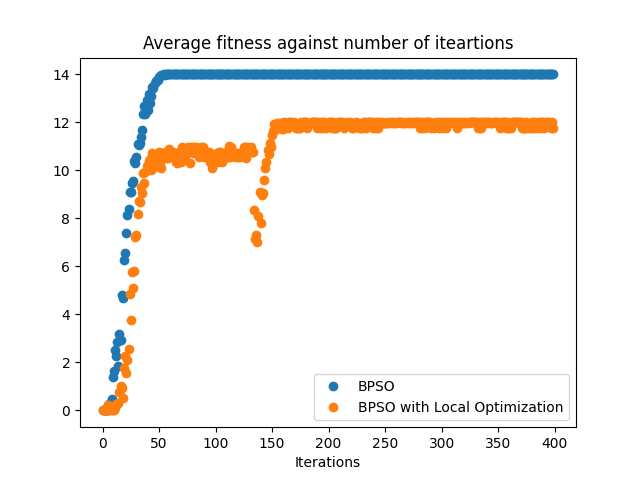
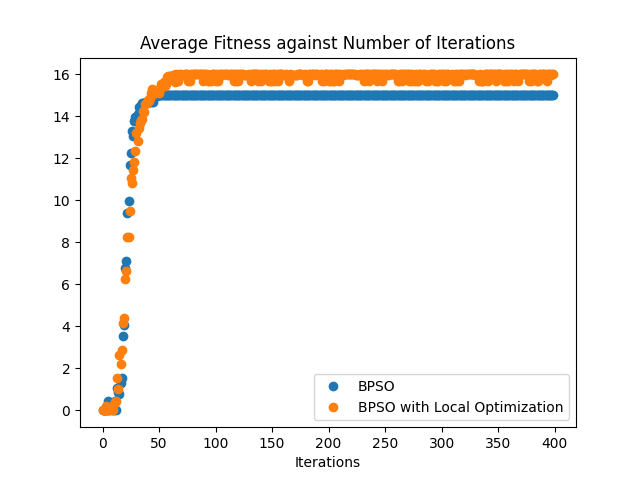
more graphs added

diff --git a/Performance.py b/Performance.py
@@ -3,6 +3,9 @@ import numpy as np
 import matplotlib.pyplot as plt
 
 from BPSO import *
+from GA_clique import main
+from cliqueAco import results_aco 
+
 from ImportGraph import *
 from Visualize_Graph import *
 from LocalOptimizationFunctions import ExpandExistingClique,LimitClique
@@ -11,7 +14,6 @@ from LocalOptimizationFunctions import ExpandExistingClique,LimitClique
 graph1fileName = "Graphs/C125.9.txt"
 G = ImportGraph(graph1fileName)
 
-print("G",G[36])
 
 def maxFunc(array):
     return maxCliqueFitness(array,G)
@@ -19,42 +21,53 @@ def maxFunc(array):
 def ParticleExpandClique(array):
     return ExpandExistingClique(LimitClique(array,G),G)
 
+def results_GA(Iters,Graph):
+    return main(nx.to_dict_of_lists(Graph),Iters)
+ 
 def results_bpso_locally_optimized(Iters,Graph):
-    bpso = BPSO(numOfParticles=50, dimensions=G.number_of_nodes(),
+    bpso = BPSO(numOfParticles=50, dimensions=Graph.number_of_nodes(),
             fitnessFunc=maxFunc, maxIter= Iters, particleLocalOptimizationFunc = ParticleExpandClique,
             printParticles = False, printGbest = False)
     return bpso.benchmark()
 
 def results_bpso(Iters,Graph):
-    bpso = BPSO(numOfParticles=50, dimensions=G.number_of_nodes(),
+    bpso = BPSO(numOfParticles=50, dimensions=Graph.number_of_nodes(),
             fitnessFunc=maxFunc, maxIter= Iters, particleLocalOptimizationFunc = None,
             printParticles = False, printGbest = False)
     return bpso.benchmark()
 
-def compare_Fitness(graph,n_iters=15):
-    
+def compare_metaheuristics(graph,n_iters=15):
+    print("Starting Comparision...")
     iters = [i for i in range(n_iters)]
-    avgFitness_bpso,bestFitness_bpso,maxCliqueNodes_bpso = results_bpso(n_iters,graph)
-    avgFitness_bpso_LO,bestFitness_bpso_LO, maxCliqueNodes_bpso_LO = results_bpso(n_iters,graph)
+    avgFitness_bpso, bestFitness_bpso, maxCliqueNodes_bpso = results_bpso(n_iters,graph)
+    avgFitness_bpso_LO, bestFitness_bpso_LO, maxCliqueNodes_bpso_LO = results_bpso(n_iters,graph)
+    avgFitness_GA, bestFitness_GA, maxCliqueNodes_GA = results_GA(n_iters,graph)
+    avgFitness_ACO, bestFitness_ACO, maxCliqueNodes_ACO = results_aco(n_iters,graph)
 
-    avgFitness = {"Iterations" : iters, "BPSO": avgFitness_bpso, "BPSO with Local Optimization": avgFitness_bpso_LO } 
+    y_names = ['BPSO', "BPSO with Local Optimization","GA","ACO"]
+    
+    avgFitness = {"Iterations" : iters, "BPSO": avgFitness_bpso, "BPSO with Local Optimization": avgFitness_bpso_LO 
+        , "GA" : avgFitness_GA, "ACO" : avgFitness_ACO
+    } 
     frame = pd.DataFrame(avgFitness)
-    frame.plot(x ='Iterations', y=['BPSO', "BPSO with Local Optimization"], style='o')
+    frame.plot(x ='Iterations', y = y_names, style='o')
     plt.title('Average Fitness against Number of Iterations')
     plt.savefig('Plots/plot-average-fitness.png')
     plt.show()
     print(frame)
 
-    bestFitness = {"Iterations" : iters, "BPSO": avgFitness_bpso, "BPSO with Local Optimization": avgFitness_bpso_LO } 
-    frame = pd.DataFrame(avgFitness)
-    frame.plot(x ='Iterations', y=['BPSO', "BPSO with Local Optimization"], style='o')
-    plt.title('Average Fitness against Number of Iterations')
-    plt.savefig('Plots/plot-average-fitness.png')
+    bestFitness = {"Iterations" : iters, "BPSO": bestFitness_bpso, "BPSO with Local Optimization": bestFitness_bpso_LO  
+        , "GA" : bestFitness_GA, "ACO" : bestFitness_ACO
+        } 
+    frame = pd.DataFrame(bestFitness)
+    frame.plot(x ='Iterations', y = y_names, style='o')
+    plt.title('Best Fitness (CLique Size) against Number of Iterations')
+    plt.savefig('Plots/plot-best-fitness.png')
     plt.show()
     print(frame)
 
 
-compare_avgFitness(G,400)
+compare_metaheuristics(G,400)
 
 # bpso = BPSO(numOfParticles=5, dimensions=G.number_of_nodes(),
 #             fitnessFunc=maxFunc, maxIter=30, particleLocalOptimizationFunc = ParticleExpandClique,

diff --git a/Visualize_Graph.py b/Visualize_Graph.py
@@ -14,6 +14,17 @@ def visualizeClique(graph,cliqueNodes):
     nx.draw_spring(graph, with_labels = True, node_color = node_colors)
     plt.show()
 
+def visualizeCliqueSave(graph,cliqueNodes,fileName):
+    node_colors = []
+    for i in range(1,graph.number_of_nodes()+1):
+        if i in cliqueNodes:
+            node_colors.append("red")
+        else:
+            node_colors.append("blue")
+    
+    nx.draw_spring(graph, with_labels = True, node_color = node_colors)
+    plt.savefig(fileName)
+
 # graph = {
 #     0: [1, 2],
 #     1: [0, 2, 3, 4],

diff --git a/GA_clique.py b/GA_clique.py
@@ -289,10 +289,10 @@ def main(graph, iterr = 100):
         if max_clique_chrom[i] == 1:
             max_nodes.append(i+1)
         
-    return (max_fitness_array, avg_fitness_array, max_nodes)
+    return (avg_fitness_array, max_fitness_array, max_nodes)
 
 
 
-G = {}
-G = importGs(G, "graphs\c125.9.txt")
-print(main(G))
+# G = {}
+# G = importGs(G, "graphs\c125.9.txt")
+# print(main(G))
